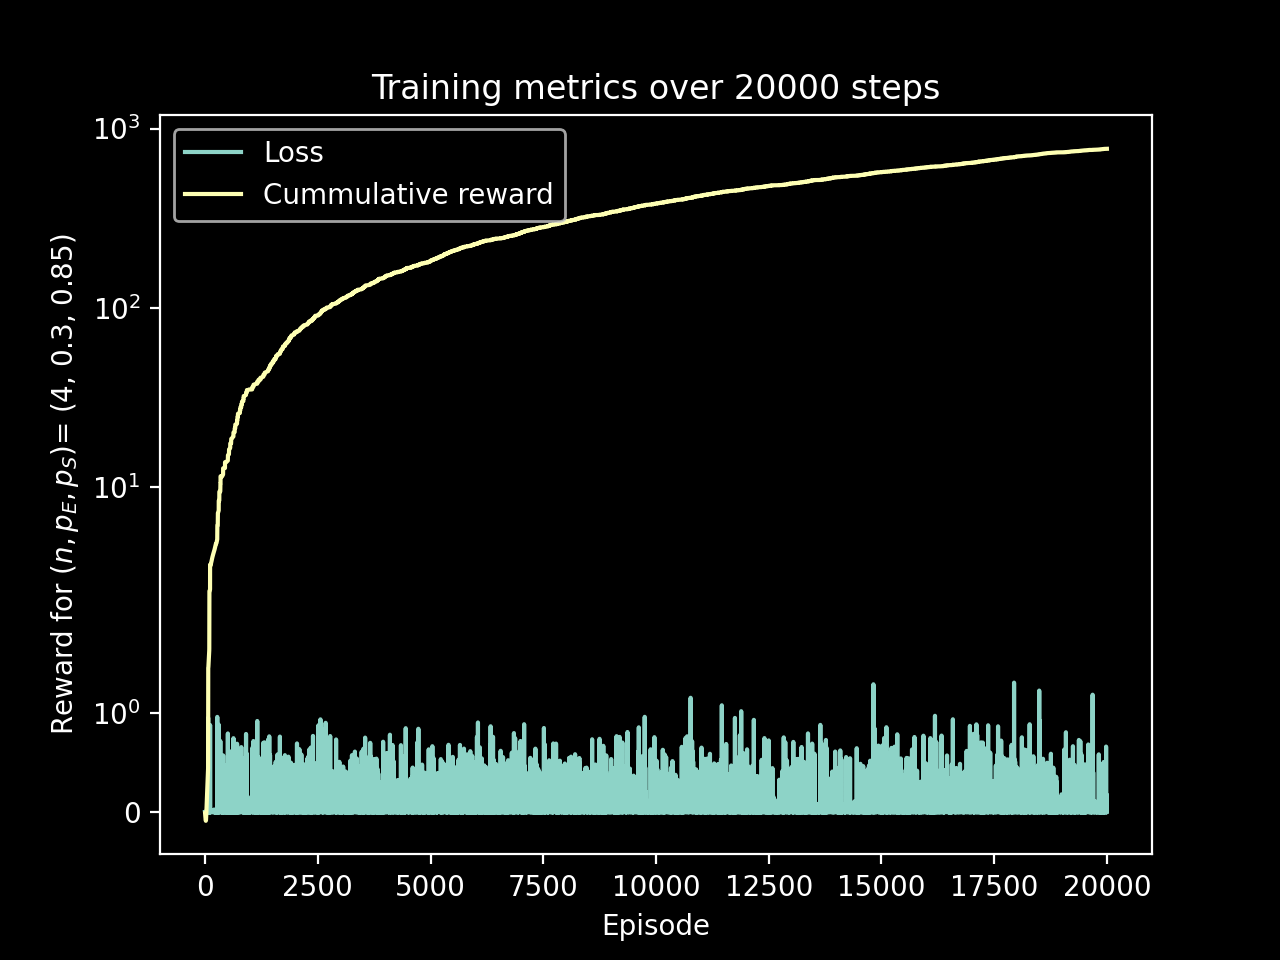
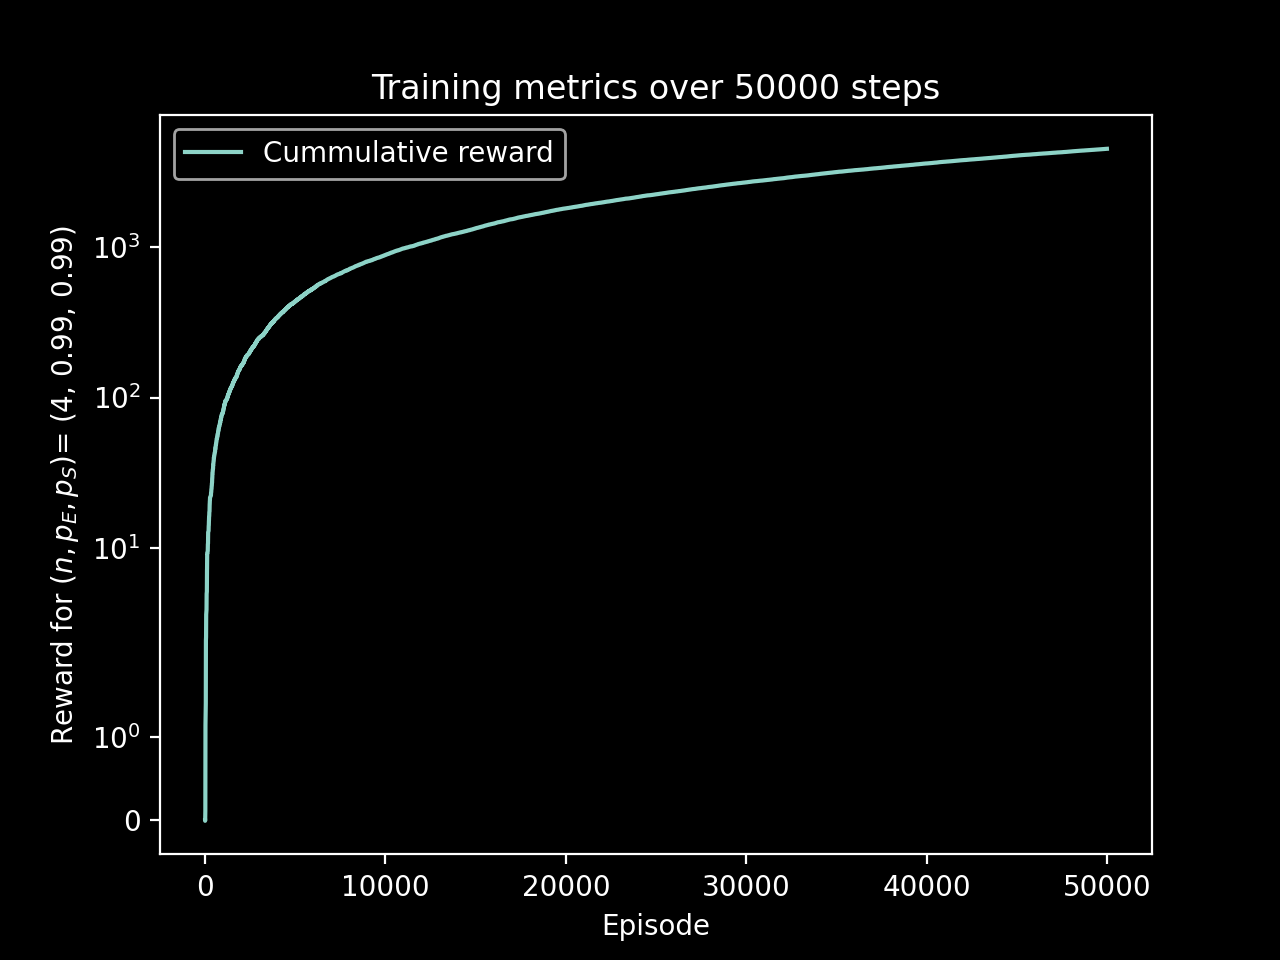
code: minor changes

diff --git a/src/main.py b/src/main.py
@@ -6,34 +6,36 @@ from stats import test_stats, n_scaling_test
 plt.style.use('dark_background')
 np.set_printoptions(legacy='1.25')
 
-# This file consists of 2 separete simulations
-# 
-# 1) Training and validation
-# 2) Scaling statistics of the relative performance 
+'''
 
+	This file consists of 2 separete simulations
+ 
+		1) Training and validation
+		2) Scaling statistics of the relative performance 
+
+'''
 if __name__ == '__main__':
 
 	t_0 = time()
-	#Toggle if scaling performance is evaluated
-	GET_SCALING_STATS = False
+	GET_SCALING_STATS = False # Toggle if u want to see scaling
 
 
-	# Re-initialize the agent, now to be used as a zero-shot learner
+	# Initialize the agent
 	agent = AgentGNN(n=4, 
 					cutoff = 1000,
 					tau=1000,
-					p_entangle=0.3, 
-					p_swap=0.85)
+					p_entangle=0.99, 
+					p_swap=0.99)
 
-	#Train ONCE to use for testing (also save the model)
-	agent.train(episodes=30_000, plot=True, save_model=False)
+	# Run training loop
+	agent.train(episodes=50_000)
 
-	# Now gather validation statistics
+	# Gather validation statistics
 	test_stats(agent=agent, 
-			experiments=10, 
+			experiments=1, 
 			n_test = 6, 
-			p_entangle=0.1, 
-			p_swap=0.95, 
+			p_entangle=0.3, 
+			p_swap=0.90, 
 			cutoff = 1000,
 			tau=1000, 
 			rounds=1000) 

diff --git a/src/stats.py b/src/stats.py
@@ -90,13 +90,13 @@ def test_stats(agent,
 
   x = np.arange(len(lt))
 
-  plt.plot(x, lt, 'tab:blue', ls='-', label=f'Trained agent (rate: {lt[-1]:.3f})')
+  plt.plot(x, lt, 'tab:blue', ls='-', label=f'Trained agent (rate: {lt[-1]:.5f})')
   plt.fill_between(x, lt-error_t, lt+error_t, color='blue', alpha=0.2)
 
-  plt.plot(x, ls, 'tab:green', ls='-', label=f'Swap asap (rate: {ls[-1]:.3f})')
+  plt.plot(x, ls, 'tab:green', ls='-', label=f'Swap asap (rate: {ls[-1]:.5f})')
   plt.fill_between(x, ls-error_s, ls+error_s, color='green', alpha=0.2)
 
-  plt.plot(x, lr, 'tab:grey', ls='-', label=f'Random (rate: {lr[-1]:.3f})')
+  plt.plot(x, lr, 'tab:grey', ls='-', label=f'Random (rate: {lr[-1]:.5f})')
   plt.fill_between(x, lr-error_r, lr+error_r, color='grey', alpha=0.2)
 
   plt.plot()

diff --git a/src/agent.py b/src/agent.py
@@ -193,12 +193,15 @@ class AgentGNN(RepeaterNetwork):
     
     """Trains the agent"""
     self.reset()
-    links_established, totalReward, rewardList = 0, 0, []
+    totalReward, rewardList = 0, []
+    links_established = 0
 
     for step in tqdm(range(episodes)):
+
       state, action, reward, next_state = self.step()
       q_value, target = self.Q_estimate(state, action, reward, next_state)
       loss = self.backprop(q_value, target)
+
       self.epsilon = self.epsilon * (1 - step / episodes) #epsilon decay like deepmind
 
       if step % 100 == 0:

diff --git a/src/model.py b/src/model.py
@@ -1,6 +1,17 @@
 from torch_geometric.nn import GATv2Conv
 import torch.nn as nn
 
+'''
+Using a trained model:
+
+model_state_dict = torch.load("/Users/chrischalkias/GitHub/QRN-RL-GNN/assets/gnn_model.pth")
+net = RepeaterNetwork(n=4) # for example
+state = net.tensorState()
+model = GNN()
+model.load_state_dict(model_state_dict)
+model(state)
+'''
+
 class GNN(nn.Module):
     """Defines the GNN model used"""
     def __init__(self, node_dim=2,

diff --git a/src/repeaters.py b/src/repeaters.py
@@ -119,7 +119,7 @@ class RepeaterNetwork():
     return self.matrix[edge][linkType]
 
 
-  def setLink(self, linkType, edge:tuple, newValue:float):
+  def setLink(self, edge:tuple, newValue:float, linkType=1):
     """Set the link value (only this and tick() allowed to change matrix)"""
     self.checkEdgeLink(edge=edge, linkType=linkType)
     self.matrix[edge][linkType] = newValue
